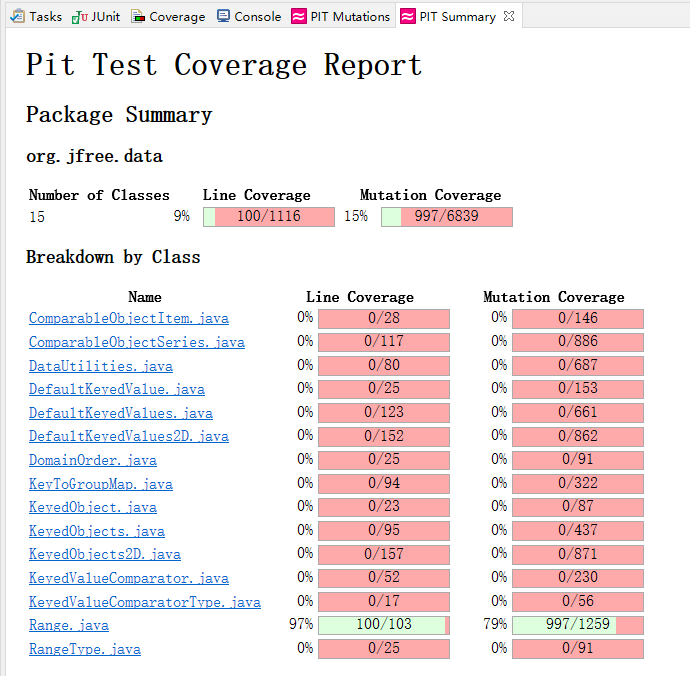
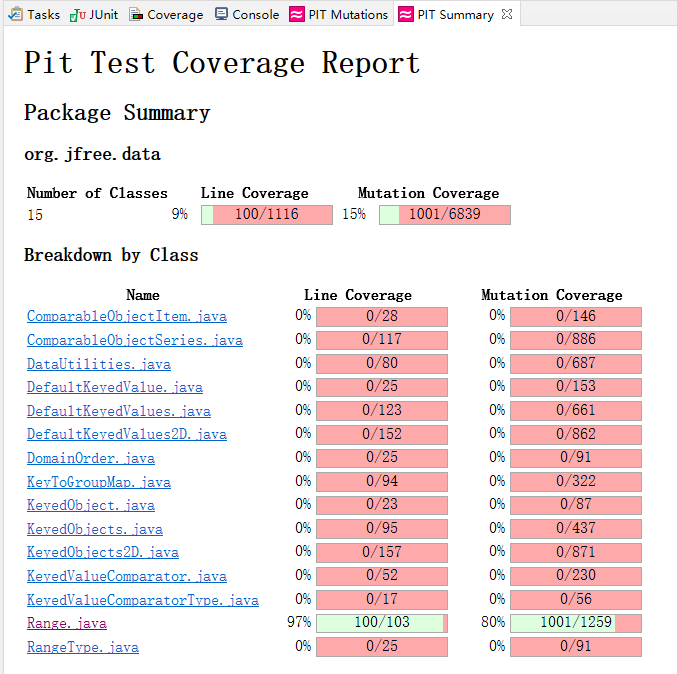
Report updated

diff --git a/Assignment4-ReportTemplate.md b/Assignment4-ReportTemplate.md
@@ -13,6 +13,25 @@
 
 # Analysis of 10 Mutants of the Range class
 
+For Range.java line 157 ( intersects(double, double) )
+![](./media/Range1.PNG) ![](./media/Range1'.PNG)
+
+Mutant at line 12, 13, 14，16, 17, 18 are killed by the three added tests:
+![](./media/Range1killTest.PNG)
+
+The purpose of adding (1.1, 1.2) test case is to make b0 and b1 not be able to pass incremented lower value ( 1.1++ and ++1.1 to 2.1) at line 157 and 158 ( 1.1<2.1 and 1.2<2.1 ).
+The purpose of adding (5.4, 6.3) test case is to make incremented b0 value ( 5.4++ and ++5.4 to 6.4) not be able to pass upper value ( 6.4>5.5 ) at line 157 and 158.
+The purpose of adding (5.6, 5.7) test case is to make decremented b0 value ( 5.6-- and --5.6 to 4.6) be able to pass upper value ( 4.6<5.5 ) at line 161.
+
+For Range.java line 157 ( shiftWithNoZeroCrossing(double, double) )
+![](./media/Range2.PNG) ![](./media/Range2'.PNG)
+
+Mutant at line 4, 7, 8, 9, 10 are killed by the two added tests:
+![](./media/Range2killTest.PNG)
+
+The purpose of adding Range(0.5, 10) and Range(-0.5, 10) is to make test cases fail when 0.0 value is substitu
+ted with 1.0 or -1.0 because 0.5 and -0.5 are not able to pass the new value. Since this method is not able to cross zero, mutant at line 4 will be killed by two added tests because if condition is replaced by 'False', the output will cross the zero.
+
 # Report all the statistics and the mutation score for each test class
 
 DataUtilityTest:
